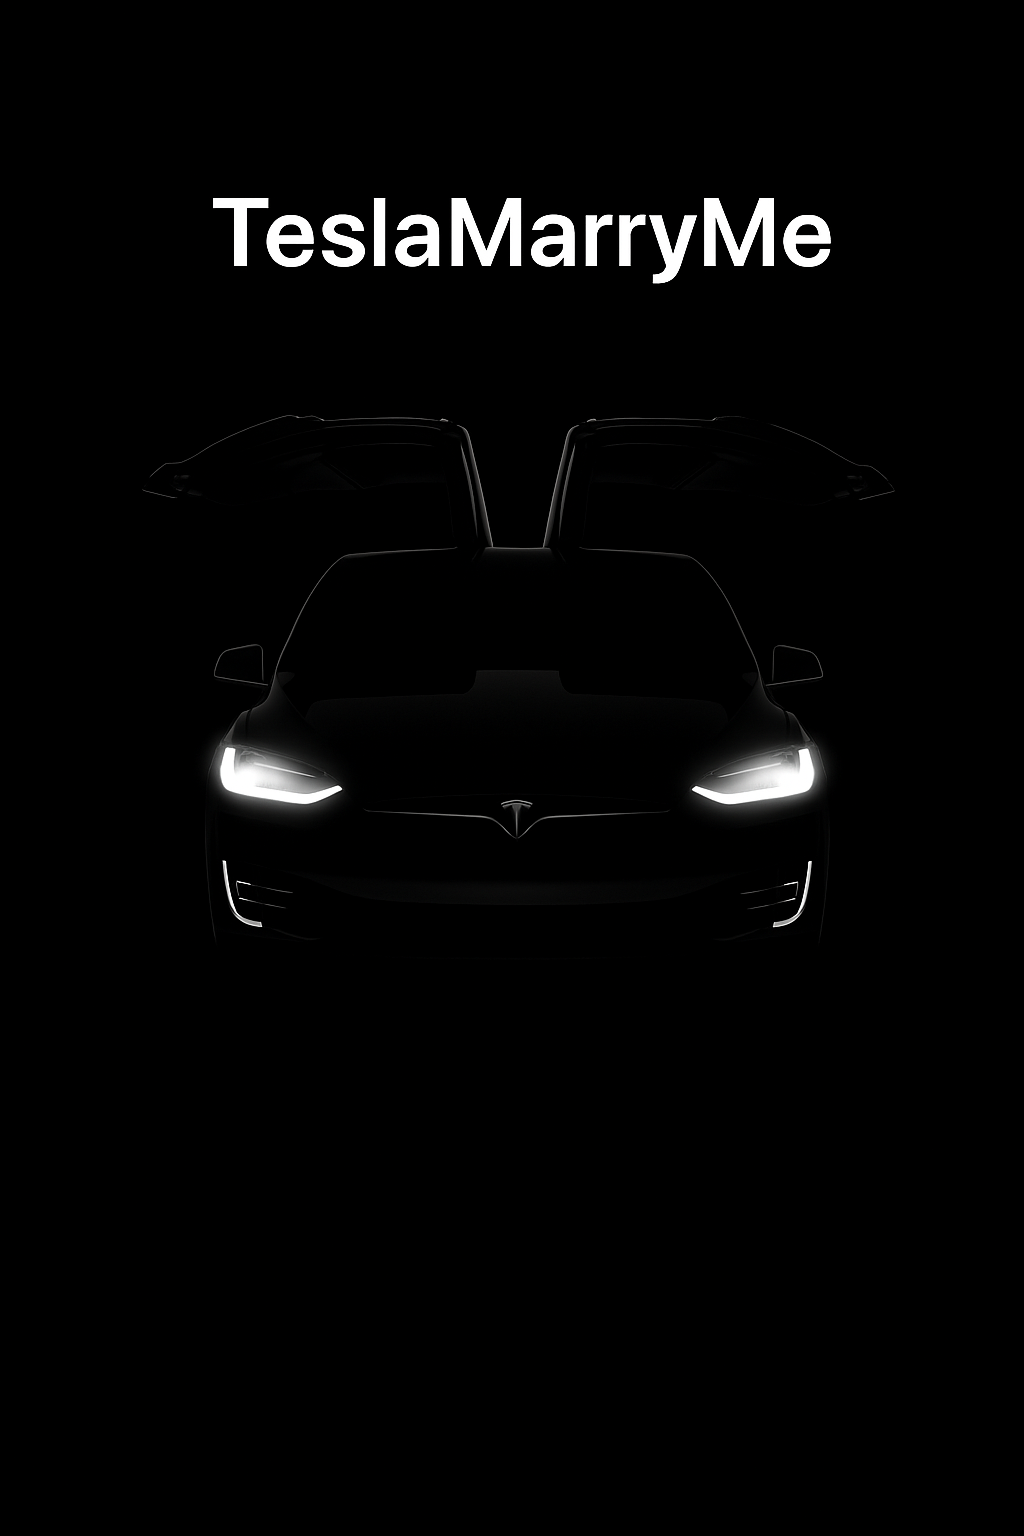
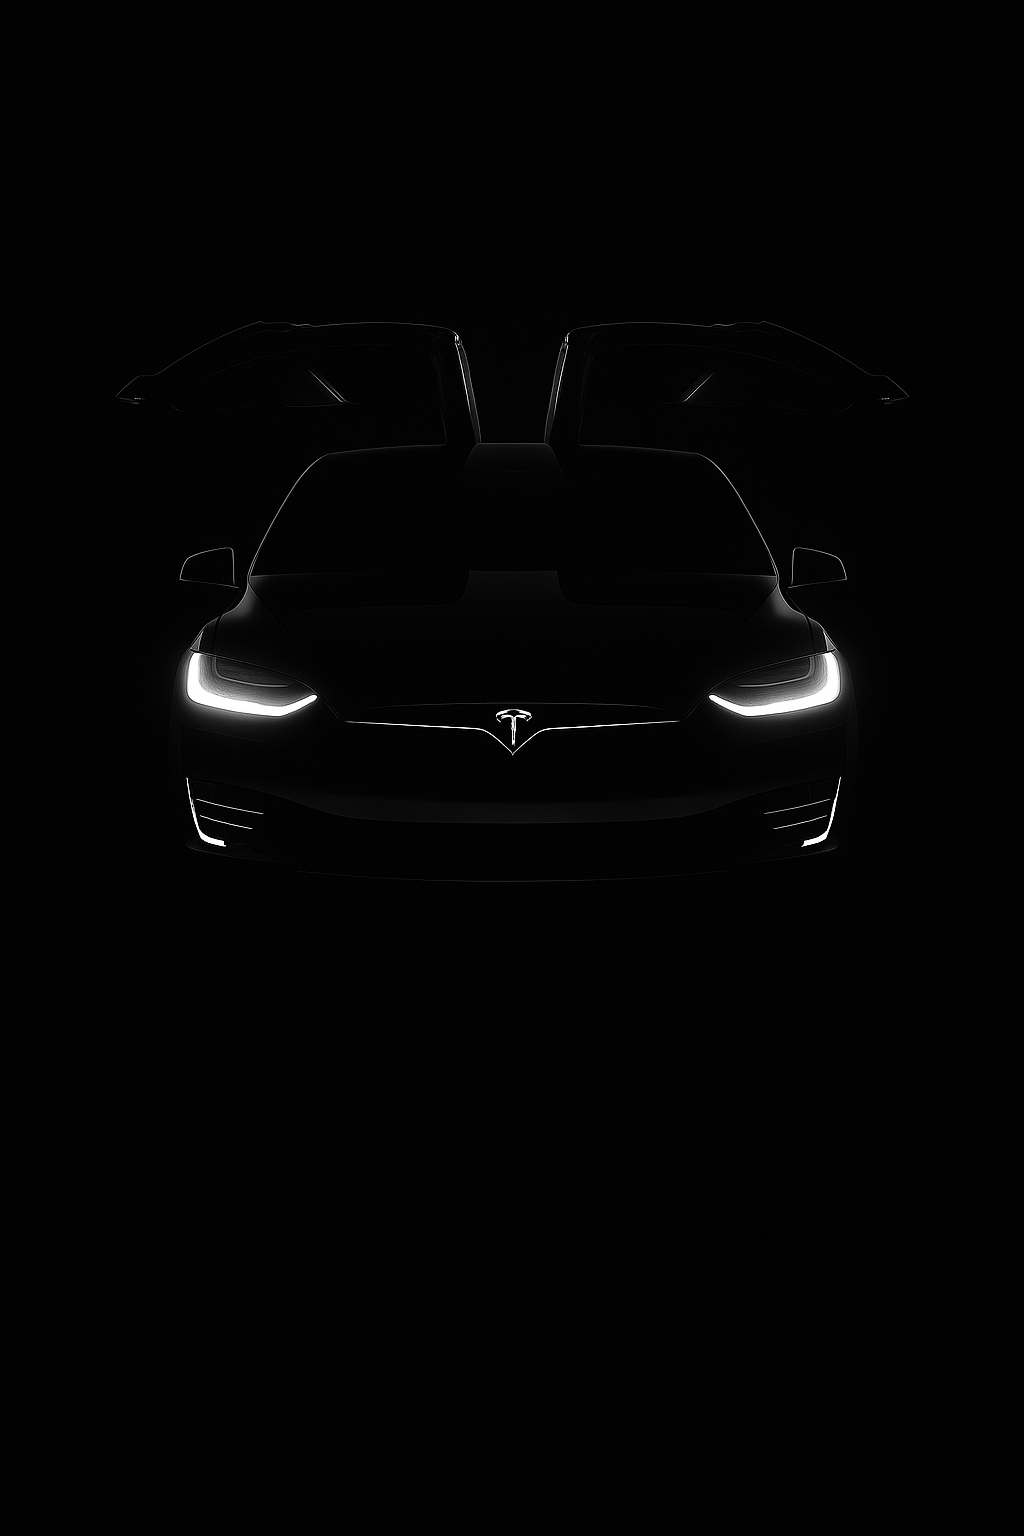
Add files via upload

diff --git a/index.html b/index.html
@@ -3,66 +3,21 @@
 <html lang="zh-Hant">
 <head>
   <meta charset="UTF-8">
-  <title>TeslaMarryMe</title>
+  <title>TeslaMarryMe Booking</title>
   <style>
     body {
-      background-color: #0f1113;
-      font-family: 'Segoe UI', 'Roboto', sans-serif;
-      color: white;
-      padding: 20px;
-    }
-    h1 {
+      background-color: #000000;
+      font-family: 'Segoe UI', sans-serif;
       color: white;
       text-align: center;
-      font-size: 2em;
-      margin-bottom: 10px;
-      animation: glowText 2s ease-in-out infinite alternate;
+      margin: 0;
+      padding: 0;
     }
-    @keyframes glowText {
-      0% { text-shadow: 0 0 5px #ffffff; opacity: 0.5; }
-      100% { text-shadow: 0 0 15px #ffffff; opacity: 1; }
-    }
-    .container {
-      max-width: 600px;
-      margin: auto;
-    }
-    label {
-      margin-top: 10px;
-      display: block;
-      color: #b0bec5;
-    }
-    input, select, button {
-      width: 100%;
-      padding: 10px;
-      margin-top: 5px;
-      border-radius: 5px;
-      background: #1c1f22;
-      border: 1px solid #37474f;
-      color: white;
-    }
-    button {
-      background: #00bcd4;
-      font-weight: bold;
-      text-transform: uppercase;
-      cursor: pointer;
-    }
-    #result {
-      margin-top: 20px;
-      font-size: 1.2em;
-      color: #00e5ff;
-      font-weight: bold;
-    }
-    #debug-output {
-      color: red;
-      font-size: 1.1em;
-      margin-top: 10px;
-    }
-
-    .car-image-container {
+    .car-container {
       position: relative;
       width: 100%;
-      max-width: 600px;
-      margin: 0 auto 30px auto;
+      max-width: 500px;
+      margin: auto;
     }
     .car-image {
       width: 100%;
@@ -70,115 +25,31 @@
     }
     .headlight {
       position: absolute;
-      width: 50px;
-      height: 20px;
-      background-color: #ffffff;
-      border-radius: 10px;
-      top: 60px;
+      width: 30px;
+      height: 15px;
+      background-color: #00ffff;
+      border-radius: 50%;
+      animation: blink 1s infinite alternate;
+    }
+    .headlight.left {
+      top: 115px;
       left: 90px;
-      opacity: 0.3;
-      animation: flash 1s infinite alternate;
-      box-shadow: 0 0 20px #00e5ff;
     }
     .headlight.right {
-      left: 370px;
+      top: 115px;
+      right: 90px;
     }
-    @keyframes flash {
-      0% { opacity: 0.3; }
-      100% { opacity: 1; }
+    @keyframes blink {
+      from { opacity: 1; }
+      to { opacity: 0.2; }
     }
   </style>
 </head>
 <body>
-  <h1>TeslaMarryMe</h1>
-  <div class="container">
-    <div class="car-image-container">
-      <img src="tesla_modelx_wings_open.png" alt="" class="car-image">
-      <div class="headlight left"></div>
-      <div class="headlight right"></div>
-    </div>
-
-    <label for="rideDate">搭車日期</label>
-    <input type="date" id="rideDate">
-
-    <label for="rideTime">搭車時間</label>
-    <input type="time" id="rideTime">
-
-    <label for="origin">出發地</label>
-    <input id="origin" placeholder="例如：高雄市左營區大路378號">
-
-    <label for="destination">目的地</label>
-    <input id="destination" placeholder="例如：桃園機場">
-
-    <label for="carType">選擇車型</label>
-    <select id="carType">
-      <option value="5">五人座</option>
-      <option value="7">七人座</option>
-    </select>
-
-    <label for="luggageLarge">大行李數量</label>
-    <select id="luggageLarge">
-      <option value="0">0</option><option value="1">1</option><option value="2">2</option><option value="3">3</option>
-    </select>
-
-    <label for="luggageSmall">小行李數量</label>
-    <select id="luggageSmall">
-      <option value="0">0</option><option value="1">1</option><option value="2">2</option><option value="3">3</option>
-    </select>
-
-    <label for="receipt">是否需要收據</label>
-    <select id="receipt">
-      <option value="是">是</option>
-      <option value="否" selected>否</option>
-    </select>
-
-    <button onclick="calculateFare()">預約報價</button>
-
-    <div id="result"></div>
-    <div id="debug-output"></div>
+  <div class="car-container">
+    <div class="headlight left"></div>
+    <div class="headlight right"></div>
+    <img src="tesla_car.png" alt="Tesla Model X" class="car-image">
   </div>
-
-  <script>
-    function calculateFare() {
-      const origin = document.getElementById("origin").value;
-      const destination = document.getElementById("destination").value;
-      const carType = document.getElementById("carType").value;
-      const rideTime = document.getElementById("rideTime").value;
-
-      if (!origin || !destination) {
-        document.getElementById("result").innerText = "請輸入出發地與目的地地址。";
-        return;
-      }
-
-      const hour = rideTime ? parseInt(rideTime.split(":")[0]) : 12;
-      const isNight = (hour >= 23 || hour < 6);
-      const nightMultiplier = isNight ? 1.2 : 1;
-      const minFare = carType === "7" ? 1000 : 500;
-
-      const service = new google.maps.DistanceMatrixService();
-      service.getDistanceMatrix({
-        origins: [origin],
-        destinations: [destination],
-        travelMode: 'DRIVING',
-        unitSystem: google.maps.UnitSystem.METRIC,
-      }, function(response, status) {
-        if (status !== "OK") {
-          document.getElementById("debug-output").innerText = "Google Maps API 呼叫錯誤: " + status;
-        } else {
-          const element = response.rows[0].elements[0];
-          if (element.status === "OK") {
-            const distanceInKm = element.distance.value / 1000;
-            const base = (distanceInKm * 30 + 85) * 1.4;
-            const fare = Math.max(base * nightMultiplier, minFare).toFixed(0);
-            document.getElementById("result").innerText =
-              "距離：" + distanceInKm.toFixed(1) + " 公里，預估金額：NT$ " + fare + " 元" + (isNight ? "（含深夜加成）" : "");
-          } else {
-            document.getElementById("debug-output").innerText = "無法計算距離：API 返回錯誤。" + element.status;
-          }
-        }
-      });
-    }
-  </script>
-  <script async defer src="https://maps.googleapis.com/maps/api/js?key=AIzaSyBYhjHSQTm68K_dnKgiiWFGRWX2RBiJMhQ"></script>
 </body>
 </html>
